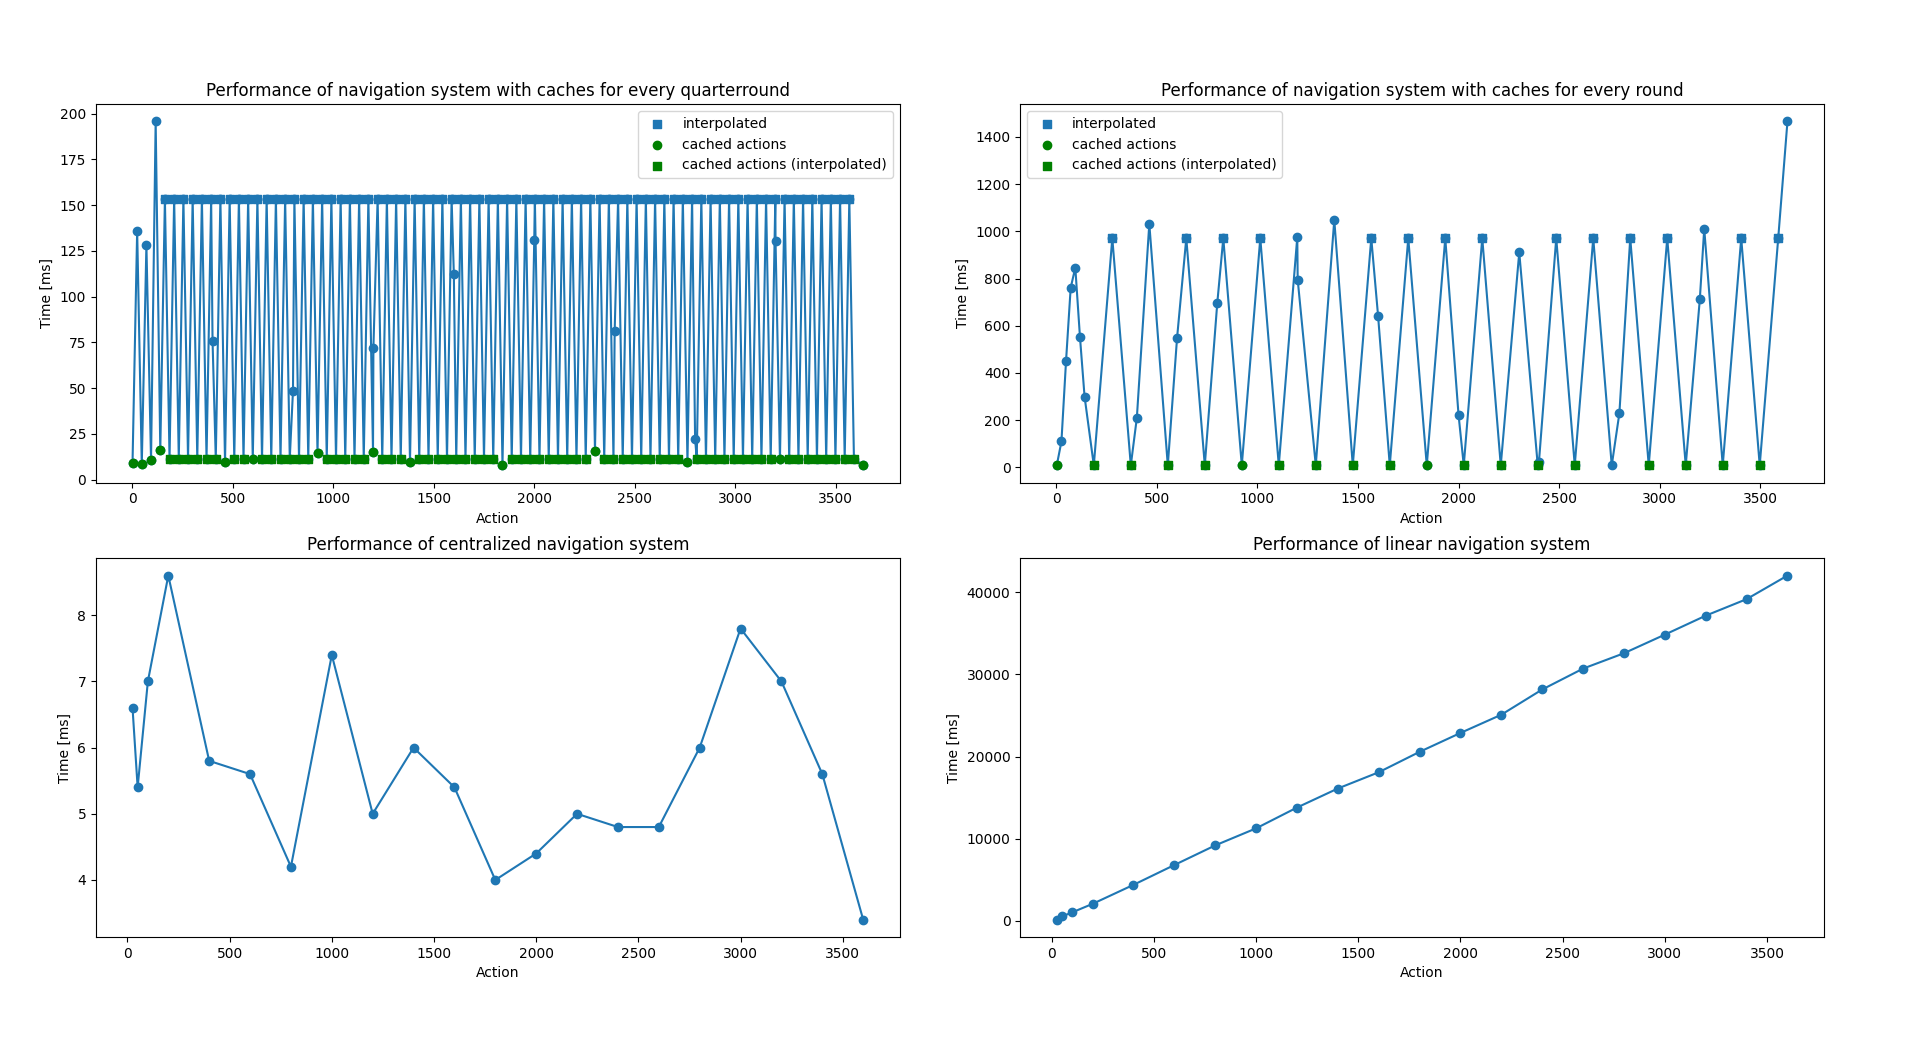
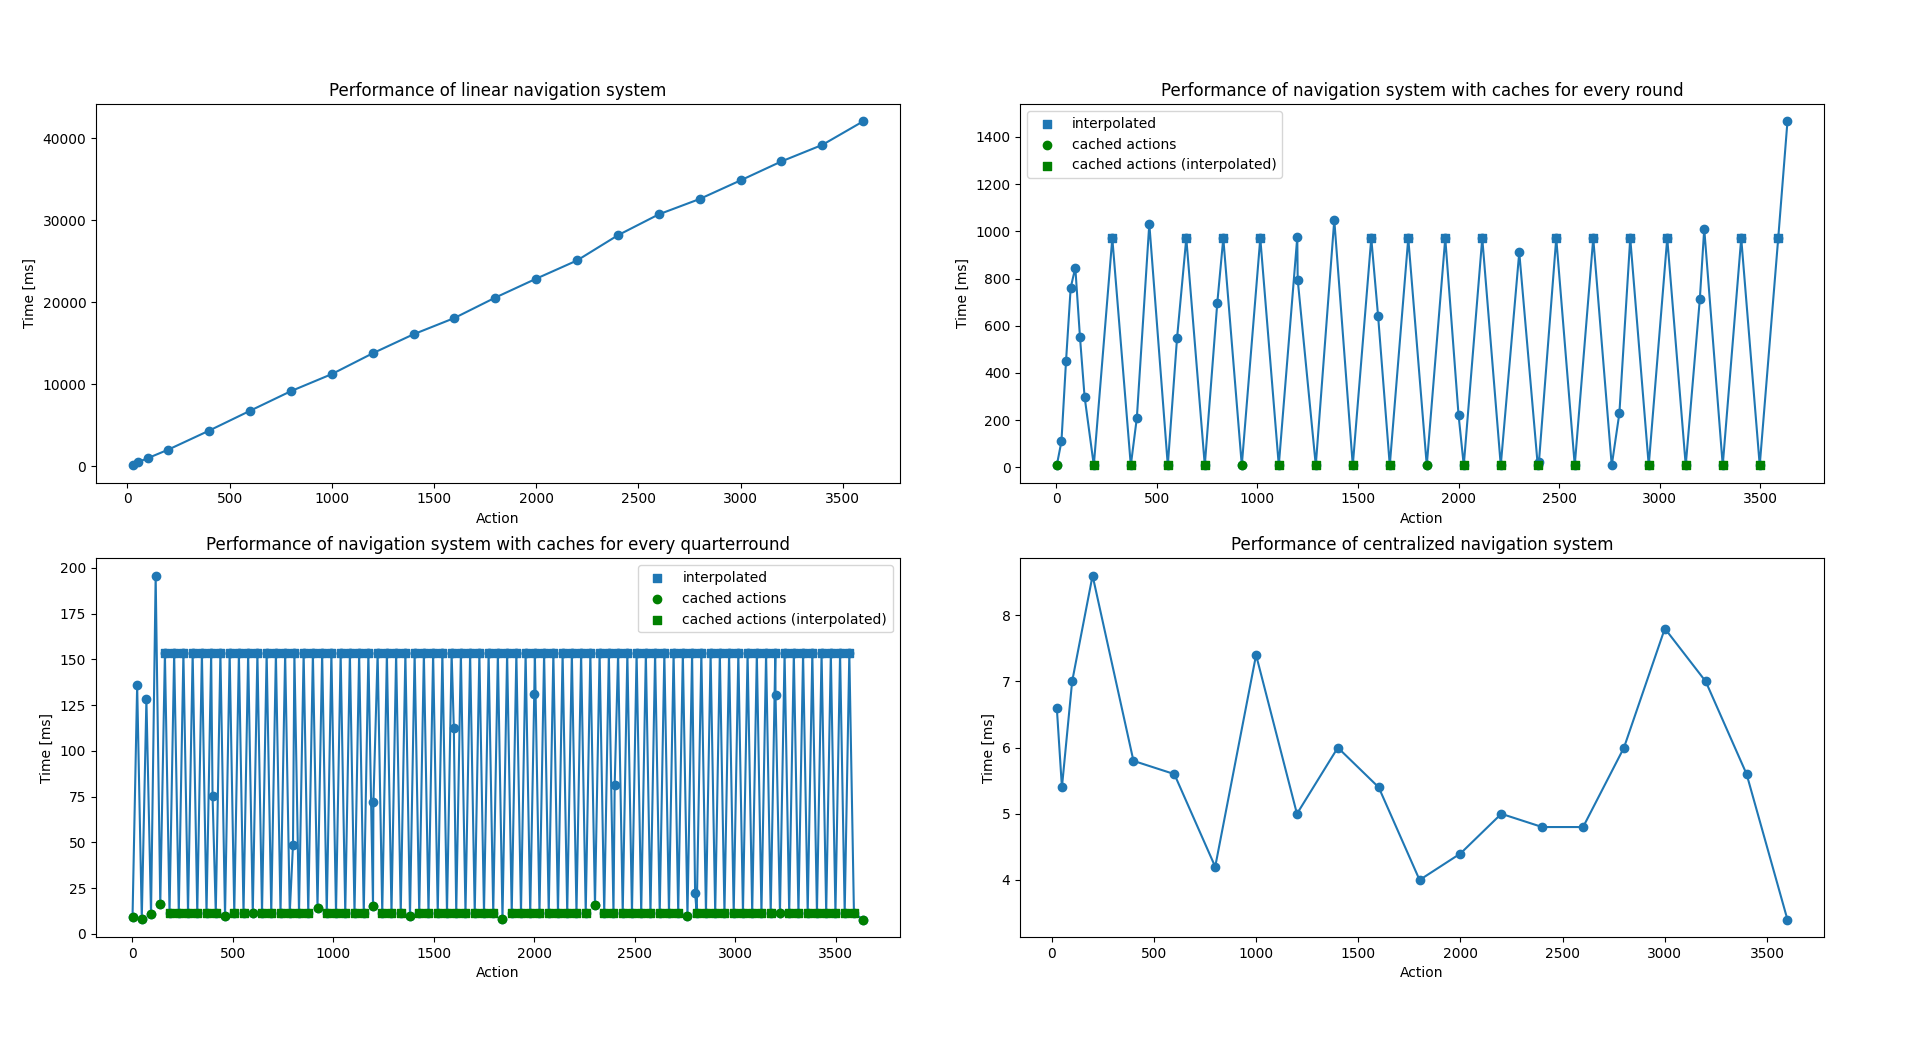
Reorder plots

diff --git a/thesis/figures/pyplot/plot.py b/thesis/figures/pyplot/plot.py
@@ -133,10 +133,10 @@ def plot_central(plotData: PlotData, ax):
 
 fig, ((ax1, ax2), (ax3, ax4)) = plt.subplots(2, 2)
 
-plot_cache_qr(data[0], ax1)
+plot_linear(data[3], ax1)
 plot_cache_round(data[1], ax2)
-plot_central(data[2], ax3)
-plot_linear(data[3], ax4)
+plot_cache_qr(data[0], ax3)
+plot_central(data[2], ax4)
 fig.tight_layout()
 plt.subplots_adjust(left=0.05, right=0.95, bottom=0.1, top=0.9, wspace=0.15, hspace=0.2)
 plt.show()
